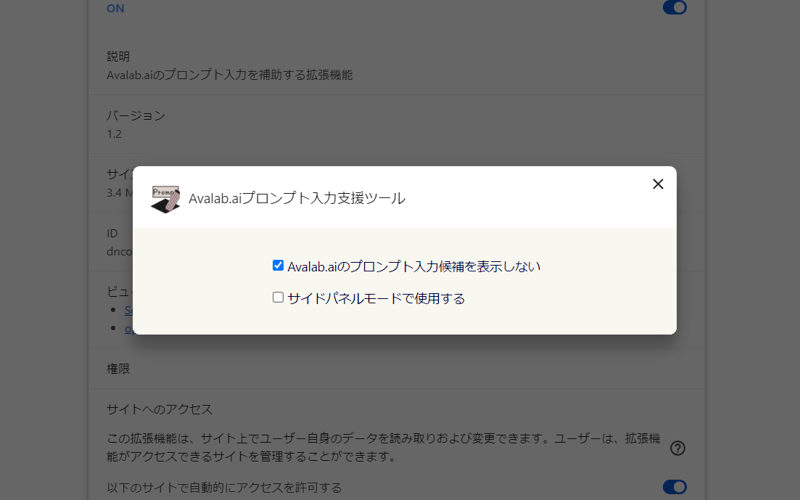
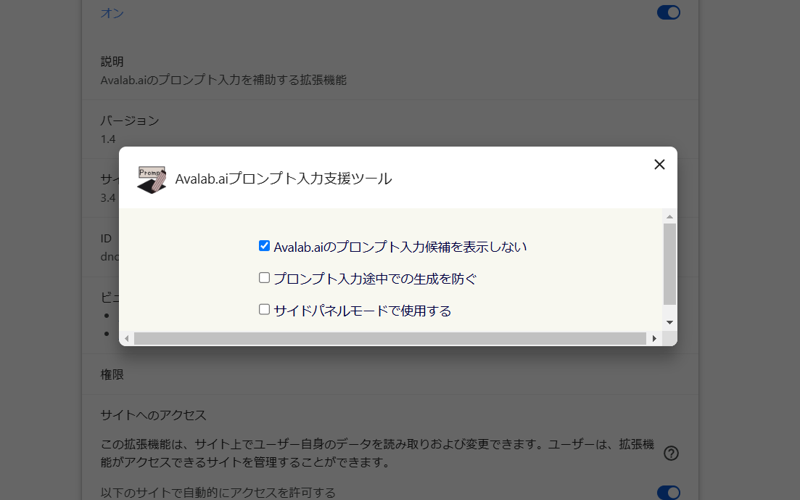
新機能に関するオプション設定の説明を追加

diff --git a/docs/index.md b/docs/index.md
@@ -61,20 +61,30 @@
 **注意：インポートを行った場合、インポート前に設定されていたプロンプト情報はすべて削除されます。**
 
 ### options / オプション設定
+
 ![オプション設定](images/060_option_01.png)
+
 - ①のアイコンをクリックすると、オプション設定の画面が開きます。
 
 ![オプション設定画面](images/060_option_02.png)
 
 #### Avalab.aiのプロンプト入力候補を表示しない
+
 Avalabのプロンプト入力テキストボックスの下に、プロンプト入力候補が表示されないように制御します。
 ![プロンプト入力候補](images/060_option_11.png)
 
+#### プロンプト入力途中での生成を防ぐ
+
+Avalabのプロンプト入力テキストボックスに入力中のプロンプトがある場合、「生成する」ボタンを無効化します。
+これにより、プロンプト反映前に誤って生成する事態を防ぐことができます。
+
 #### サイドパネルモードで使用する
+
 拡張機能のアイコンをクリックした際に、拡張機能のポップアップではなくサイドパネルにプロンプト一覧を表示するモードにします。
 ![サイドパネル](images/060_option_21.png)
 
 ## history / 更新履歴
+
 - v1.3
   - AVALAB生成ページDOM構造変更対応
   - プロンプト一覧の軽量化
